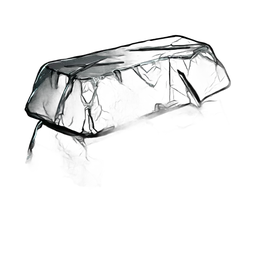
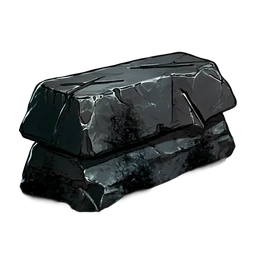
Every one of the twenty-three, everywhere they are drawn
Five reagents, three bars recut by hand, and a proper sweep of the places a
material is drawn rather than the three I happened to be looking at.

Coal, Resin, Pulp, Tallow and Veil Shard. They never had a tier and so were
never renamed, which makes them the one set whose files and keys match. The
sheet came back 4:1 rather than 5:1 with the panels drawn in, so each cell is
cropped inside its frame and padded to square rather than cut down to one --
the objects are taller than a panel is wide and a square crop took the tops
off. The fade is applied at the painted edges rather than the canvas edges,
or every one of them wore a visible box.

Gloam Bar, Cairn Bar and Titan Bar are Bliss's own cuts. Mine ate the pale
one and the dark one, which is the second time this model has done that to a
low contrast subject.

Then the sweep. Every call site that draws an item now goes through artEl(),
which returns a painting when there is one and the stroke glyph when there is
not, so nothing had to be special-cased and nothing new can be missed:

  the bench's "what it takes" chips        the Atlas's list of a region's ground
  the action sheet's "also turns up"       the Smuggler's stock
  the arena's running drop tally           the sell sheet
  a foe's drop table                       every market listing and row
  the topbar chip, which is the one place a material is on screen all the time

Two carriers were missing as well: a reagent's own node at tiers 1 and 2 had
[…]

diff --git a/src/client/ui/shell.js b/src/client/ui/shell.js
@@ -12,7 +12,7 @@
    ============================================================ */
 
 import { h, el, setText, setWidth, setAttr, toggleClass } from "./dom.js";
-import { iconEl } from "./icons.js";
+import { iconEl, artEl, hasArt } from "./icons.js";
 import { fmtAgo, fmtTime, fmtWhole, signedPct, titleCase } from "./format.js";
 import { CONFIG } from "../../shared/config.js";
 import { ARTISAN_ORDER, TRADE_ORDER, getSkill, getZone, regionOfTier, sovereignOf, skillName } from "../../shared/registry.js";
@@ -204,10 +204,18 @@ export function createShell(app) {
 
   /* ---------- topbar ---------- */
 
-  function setIcon(which, box, name) {
-    if (icons[which] === name) return;
-    icons[which] = name;
-    box.replaceChildren(iconEl(name));
+  /* `spec` is a glyph name, or the action itself when that action makes
+     something drawn -- the topbar chip is the one place a material is on
+     screen the whole time, so it wears the material rather than the trade's
+     generic glyph. The cache key is whichever of the two it ends up drawing. */
+  function setIcon(which, box, spec, fallback) {
+    const def = typeof spec === "string" || !spec ? null : spec;
+    const paint = hasArt(def);
+    const key = paint ? def.art.fade : (def && def.icon) || (typeof spec === "string" ? spec : null) || fallback || "hammer";
+    if (icons[which] === key) return;
+    icons[which] = key;
+    toggleClass(box, "is-paint", paint);
+    box.replaceChildren(paint ? artEl(def) : iconEl(key));
   }
 
   function paintBench(s) {
@@ -228,7 +236,7 @@ export function createShell(app) {
     const name = titleCase(plan.def.name);
     const count = plan.limit == null ? fmtWhole(plan.done) : `${fmtWhole(plan.done)} of ${fmtWhole(plan.limit)}`;
     const verb = GERUND[plan.def.skillId];
-    setIcon("bench", $.benchIcon, plan.def.icon || getSkill(plan.def.skillId).icon);
+    setIcon("bench", $.benchIcon, plan.def, getSkill(plan.def.skillId).icon);
     setText($.benchName, name);
     setText($.benchShort, shortName(name));
     setText($.benchMeta, `${verb ? `${verb} · ` : ""}${count} · ${fmtTime(plan.timeLeft)} left`);

diff --git a/src/client/pages/shop.js b/src/client/pages/shop.js
@@ -11,7 +11,7 @@
 import { tierLabel } from "../../shared/registry.js";
 import { CONFIG } from "../../shared/config.js";
 import { h, el, setText, setAttr, toggleClass } from "../ui/dom.js";
-import { iconEl } from "../ui/icons.js";
+import { iconEl, artEl, hasArt } from "../ui/icons.js";
 import { toast } from "../ui/overlay.js";
 import { fmt, fmtGold, fmtWhole, fmtTime, fmtClock } from "../ui/format.js";
 import { qtyPicker, confirmSpend } from "../ui/widgets.js";
@@ -82,7 +82,7 @@ export default {
       const buy = h("button.btn.btn-gold.btn-soft.btn-sm", { type: "button", onClick: () => buyRemedy(row) });
       const row = { entry, d, picker, sub, price, buy };
       row.node = h("div.list-row.shop-row.stack-sm",
-        h("div.art", { "data-tone": "good", "aria-hidden": "true" }, iconEl(d.icon)),
+        h("div.art", { class: { "art-paint": hasArt(d) }, "data-tone": "good", "aria-hidden": "true" }, artEl(d)),
         h("div.lr-main", h("div.lr-title", d.name), sub),
         h("div.lr-end", price, h("div.shop-buy", stepper, buy)));
       return row;
@@ -124,7 +124,7 @@ export default {
         const sub = h("div.lr-sub");
         const price = lot.bought ? null : h("span.price", fmtGold(lot.price));
         const node = h("div.list-row.shop-row.stack-sm", { class: { "is-dealt": lot.bought } },
-          h("div.art", { "data-tone": "gold", "aria-hidden": "true" }, iconEl(d.icon)),
+          h("div.art", { class: { "art-paint": hasArt(d) }, "data-tone": "gold", "aria-hidden": "true" }, artEl(d)),
           h("div.lr-main", h("div.lr-title", `${fmtWhole(lot.qty)}× ${d.name}`), sub),
           h("div.lr-end", lot.bought
             ? h("span.tag.tag-good", "Dealt")

diff --git a/src/shared/registry.js b/src/shared/registry.js
@@ -46,6 +46,9 @@ const MAT_ART = {
   slag_bar: "slag-bar", bog_bar: "mire-bar", cold_bar: "gloam-bar",
   cairn_bar: "cairn-bar", crucible_bar: "crucible-bar", star_bar: "starfall-bar",
   wyrm_bar: "wyrmheart-bar", void_bar: "hollow-bar", titan_bar: "titan-bar",
+
+  // The five reagents, which never had a tier and so were never renamed.
+  coal: "coal", resin: "resin", pulp: "pulp", tallow: "tallow", veil_shard: "veil-shard",
 };
 
 export const matArt = (id) => (MAT_ART[id]
@@ -230,6 +233,8 @@ function buildRegistry() {
   REAGENTS.forEach((r) => {
     MATERIALS[r.id] = { id: r.id, name: r.name, icon: r.icon, kind: "material",
       category: "Reagent", value: 1, tier: 1, reagent: true };
+    const art = matArt(r.id);
+    if (art) MATERIALS[r.id].art = art;
   });
 
   /* ---- THE VEIL: FRAGMENTS AND ESSENCE ----
@@ -376,6 +381,7 @@ function buildRegistry() {
         });
         GATHER_ACTIONS[s.id].push({
           id: `${s.id}_t${tier}_reag`, skillId: s.id, tier, name: reag.name, icon: reag.icon,
+          ...(reag.art ? { art: reag.art } : {}),
           level: t.level, time: t.time, xp: t.xp, out: { [s.reagent]: 1 },
         });
       } else {

diff --git a/src/client/pages/market.js b/src/client/pages/market.js
@@ -35,7 +35,7 @@
    ============================================================ */
 
 import { h, setText, setAttr, setWidth, toggleClass, on } from "../ui/dom.js";
-import { iconEl } from "../ui/icons.js";
+import { iconEl, artEl, hasArt } from "../ui/icons.js";
 import { openModal, confirm, toast } from "../ui/overlay.js";
 import { fmtWhole, fmtGold, fmtTime, fmtAgo } from "../ui/format.js";
 import { qtyPicker, confirmSpend, openPopup } from "../ui/widgets.js";
@@ -153,7 +153,13 @@ function rarityOf(row) {
 
 function itemArt(key, rarity, cls = "art-sm") {
   const d = itemDef(key);
-  return h("div.art", { class: cls, "data-rarity": rarity || "common", "aria-hidden": "true" }, iconEl(d ? d.icon : "unknown"));
+  // A drawn material shows itself and drops the plate; gear keeps both.
+  const paint = hasArt(d);
+  return h("div.art", {
+    class: paint ? [cls, "art-paint"] : cls,
+    "data-rarity": paint ? null : rarity || "common",
+    "aria-hidden": "true",
+  }, d ? artEl(d) : iconEl("unknown"));
 }
 
 // "Weapon · Lv10", "Bars · Lv10", "Reagent", "Tool · Delving · Lv10".

diff --git a/src/client/pages/atlas.js b/src/client/pages/atlas.js
@@ -11,7 +11,7 @@
    ============================================================ */
 
 import { h, el, qsa, on, setText, setWidth, setAttr, toggleClass } from "../ui/dom.js";
-import { iconEl } from "../ui/icons.js";
+import { iconEl, artEl } from "../ui/icons.js";
 import { confirm } from "../ui/overlay.js";
 import { fmt, fmtGold, fmtWhole } from "../ui/format.js";
 import { confirmSpend, hasPopup, openPopup } from "../ui/widgets.js";
@@ -208,7 +208,7 @@ export default {
         return h("span.chip", {
           class: { "is-locked": !ok },
           "data-tip": ok ? `${s.name} Lv ${lv}` : `Needs ${s.name} Lv ${r.level}. You have Lv ${lv}.`,
-        }, iconEl(ok ? s.matIcon : "lock"), itemDef(matId(r.tier, s.mat)).name);
+        }, ok ? artEl(itemDef(matId(r.tier, s.mat))) : iconEl("lock"), itemDef(matId(r.tier, s.mat)).name);
       });
       const yieldNote = workable === yields.length ? "Your crews can work all five."
         : workable === 0 ? `Your crews need Lv${NBSP}${r.level} in a trade to work any of it.`

diff --git a/src/client/ui/popups/foe.js b/src/client/ui/popups/foe.js
@@ -15,7 +15,7 @@
    ============================================================ */
 
 import { h } from "../dom.js";
-import { iconEl } from "../icons.js";
+import { iconEl, artEl } from "../icons.js";
 import { openModal } from "../overlay.js";
 import { fmt, fmtGold, fmtStat, chancePct, plural } from "../format.js";
 import { registerPopup, openPopup } from "../widgets.js";
@@ -123,7 +123,7 @@ function foeBody(ctx, mob) {
     if (key === "@reagent") return note(`Reagent ×${qty}`, chancePct(Math.min(1, chance * dropMult)));
     const d = itemDef(key);
     return h("div.ap-row",
-      h("button.ap-link", { type: "button", dataset: { item: key } }, iconEl(d ? d.icon : "unknown"), h("span", `${itemName(key)} ×${qty}`)),
+      h("button.ap-link", { type: "button", dataset: { item: key } }, d ? artEl(d) : iconEl("unknown"), h("span", `${itemName(key)} ×${qty}`)),
       h("span.ap-val", chancePct(Math.min(1, chance * dropMult))));
   });
   const band = veilBandOfTier(mob.tier);

diff --git a/src/client/pages/hunt.js b/src/client/pages/hunt.js
@@ -22,7 +22,7 @@
    ============================================================ */
 
 import { h, on, setAttr, setText, setWidth, toggleClass } from "../ui/dom.js";
-import { iconEl } from "../ui/icons.js";
+import { iconEl, artEl } from "../ui/icons.js";
 import { fmt, fmtStat, fmtWhole, fmtTime } from "../ui/format.js";
 import { openPopup, portraitImg, paintPortrait } from "../ui/widgets.js";
 import { monsterArt } from "../ui/popups/foe.js";
@@ -521,7 +521,7 @@ export default {
         if (dsig !== sigs.drops) {
           sigs.drops = dsig;
           dropsList.replaceChildren(...(keys.length
-            ? keys.map((k) => h("span.drop-pip", { "data-tip": itemName(k) }, iconEl(itemDef(k).icon), fmt(drops[k])))
+            ? keys.map((k) => h("span.drop-pip", { "data-tip": itemName(k) }, artEl(itemDef(k)), fmt(drops[k])))
             : [h("span.drop-pip.is-empty", "Nothing yet")]));
         }
         setText(kLeft.v, fmtTime(Math.max(0, IDLE_CAP - c.elapsed)));

diff --git a/src/client/ui/popups/sell.js b/src/client/ui/popups/sell.js
@@ -19,7 +19,7 @@
    ============================================================ */
 
 import { h, setText, setAttr, toggleClass } from "../dom.js";
-import { iconEl } from "../icons.js";
+import { iconEl, artEl, hasArt } from "../icons.js";
 import { openModal, toast } from "../overlay.js";
 import { fmtWhole, fmtGold } from "../format.js";
 import { qtyPicker, registerPopup, openPopup } from "../widgets.js";
@@ -280,7 +280,7 @@ function openChooser(ctx) {
     const rarity = d.kind !== "material" && d.rarity ? d.rarity : "common";
     const name = itemName(key);
     return h("div.list-row",
-      h("div.art.art-sm", { "data-rarity": rarity, "aria-hidden": "true" }, iconEl(d.icon)),
+      h("div.art.art-sm", { class: { "art-paint": hasArt(d) }, "data-rarity": hasArt(d) ? null : rarity, "aria-hidden": "true" }, artEl(d)),
       h("div.lr-main",
         h("div.lr-title", { class: rarity !== "common" && `rar-${rarity}` }, name),
         h("div.lr-sub", stacks(key)

diff --git a/css/components.css b/css/components.css
@@ -89,11 +89,33 @@
   border-radius: 0;
 }
 
+/* A painting stands in for a glyph wherever one would have gone, so by default
+   it takes the glyph's size. Only the places that give it real room say so. */
+.mat-art {
+  width: 20px;
+  height: 20px;
+  flex-shrink: 0;
+  display: block;
+}
+
 .art .mat-art {
   width: 100%;
   height: 100%;
-  display: block;
 }
+
+.chip .mat-art,
+.need .mat-art,
+.drop-pip .mat-art { width: 18px; height: 18px; }
+
+.ap-link .mat-art { width: 22px; height: 22px; }
+
+/* The topbar chip: its plate is a home for a glyph, not for a painting. */
+.act-ico.is-paint {
+  background: none;
+  border-radius: 0;
+}
+
+.act-ico.is-paint .mat-art { width: 100%; height: 100%; }
 
 /* In the Stockpile the slot is the frame already, so the painting only wants
    the room the glyph was not using. */

diff --git a/src/client/pages/skill.js b/src/client/pages/skill.js
@@ -241,7 +241,7 @@ function recipePill(ctx, def, locked) {
   ref.note = recipeNote(def);
   ref.needs = Object.keys(def.cost || {}).map((key) => {
     const have = document.createTextNode("");
-    const node = h("span.need", iconEl(itemDef(key).icon), itemName(key), h("span.have", have, h("small", `/${fmt(def.cost[key])}`)));
+    const node = h("span.need", artEl(itemDef(key)), itemName(key), h("span.have", have, h("small", `/${fmt(def.cost[key])}`)));
     return { key, need: def.cost[key], name: itemName(key), node, have };
   });
   ref.time = h("span");

diff --git a/src/client/ui/popups/action.js b/src/client/ui/popups/action.js
@@ -311,7 +311,7 @@ function openActionPopup(ctx, skillId, actionId) {
       listMemo.sig = sig;
       listMemo.vals = rows.map(() => h("span.ap-val"));
       list.replaceChildren(...rows.map((r, i) => h("div.ap-row",
-        h("button.ap-link", { type: "button", "data-key": r.key }, iconEl(itemDef(r.key).icon), h("span", r.label)),
+        h("button.ap-link", { type: "button", "data-key": r.key }, artEl(itemDef(r.key)), h("span", r.label)),
         listMemo.vals[i])));
     }
     setAttr(listBlock, "hidden", rows.length === 0);
